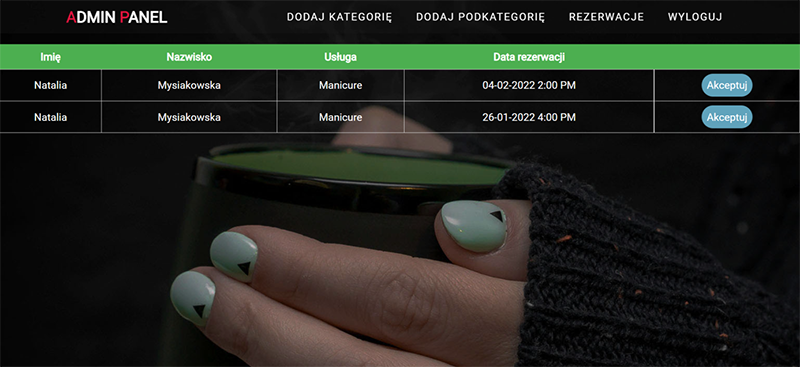
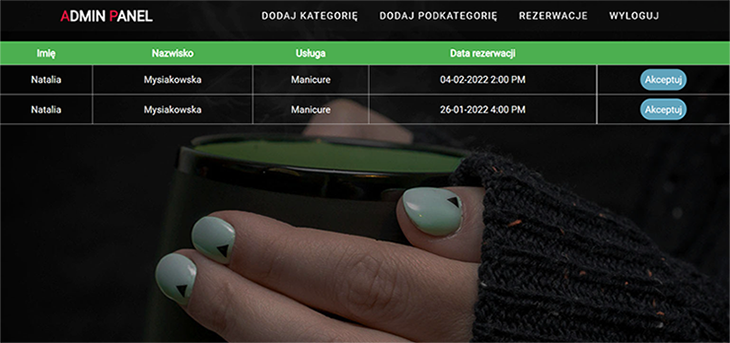
Modified photos and chicken invaders game portfolio

diff --git a/portfolio-details.html b/portfolio-details.html
@@ -54,15 +54,15 @@
               <div class="swiper-wrapper align-items-center">
 
                 <div class="swiper-slide">
-                  <img src="assets/img/portfolio/portfolio-1.jpg" alt="">
+                  <img src="assets/img/portfolio/Main_view.png" alt="">
                 </div>
 
                 <div class="swiper-slide">
-                  <img src="assets/img/portfolio/portfolio-2.jpg" alt="">
+                  <img src="assets/img/portfolio/AdminPanelReservation.png" alt="">
                 </div>
 
                 <div class="swiper-slide">
-                  <img src="assets/img/portfolio/portfolio-3.jpg" alt="">
+                  <img src="assets/img/portfolio/ConfirmEmail.png" alt="">
                 </div>
 
               </div>

diff --git a/portfolio-details-chicken.html b/portfolio-details-chicken.html
@@ -48,7 +48,7 @@
         <div class="row">
 
           <div class="col-lg-8">
-            <h2 class="portfolio-title">Game "Chicken Invaders"</h2>
+            <h2 class="portfolio-title">Game</h2>
 
             <div class="portfolio-details-slider swiper">
               <div class="swiper-wrapper align-items-center">
